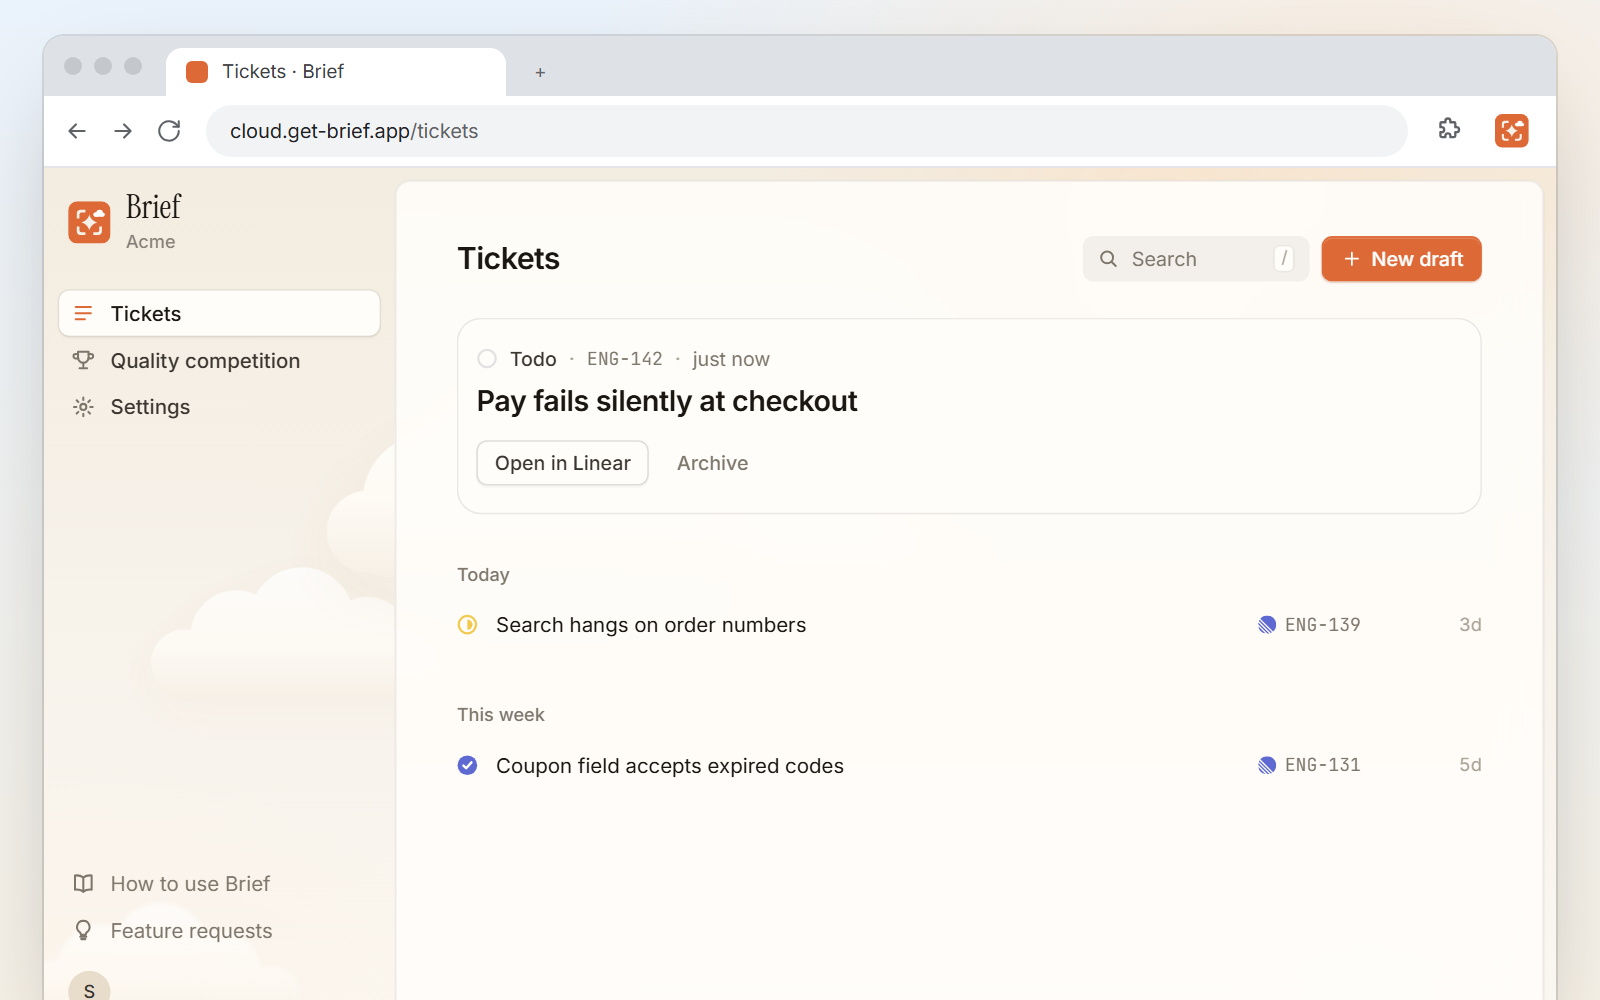
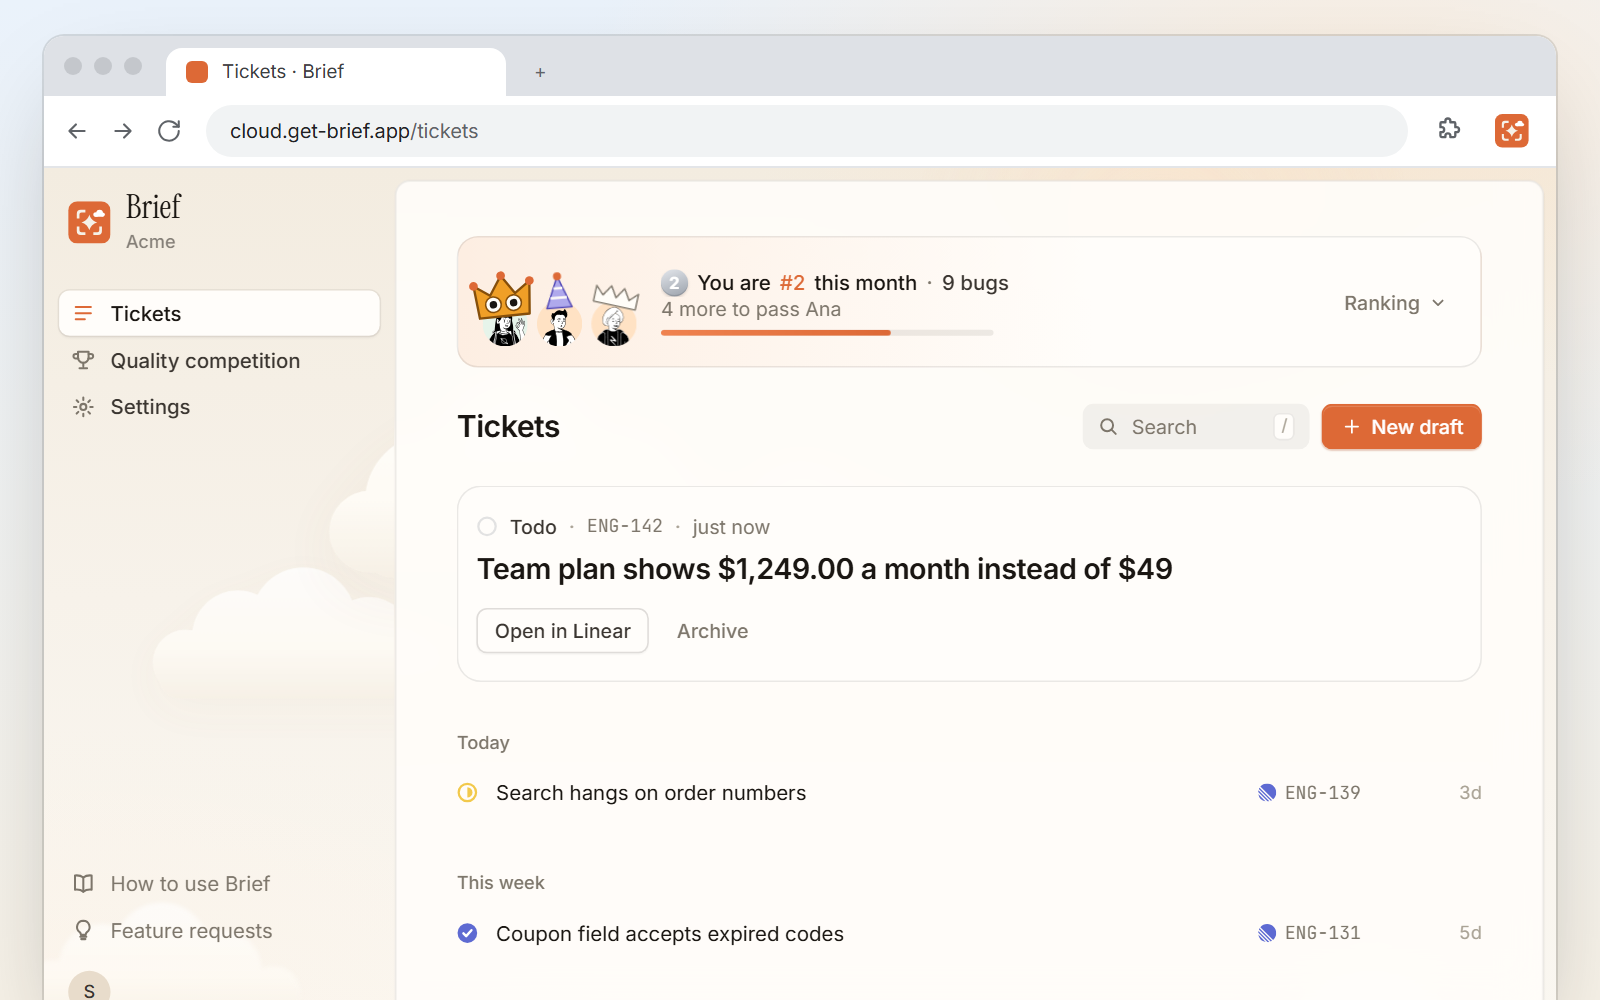
A tidy repo root and clearer screenshots (#11)
The root keeps README, LICENSE, docker-compose.yml and .env.example. Docs move
to docs/ (promo assets to docs/promo), community files to .github/, every link
updated. The extension shot now shows an obvious bug (a $1,249.00 Team plan)
with the popup describing it; the app shot shows the team's competition
podium, with faces, above the filed ticket. The guide's feed mock can take the
podium on top, like the real Tickets page.

diff --git a/docs/promo/promo-small.html b/docs/promo/promo-small.html
@@ -7,25 +7,25 @@
         font-family: 'Instrument Serif';
         font-style: normal;
         font-weight: 400;
-        src: url('../extension/fonts/InstrumentSerif-Regular-latin.woff2') format('woff2');
+        src: url('../../extension/fonts/InstrumentSerif-Regular-latin.woff2') format('woff2');
       }
       @font-face {
         font-family: 'Instrument Serif';
         font-style: italic;
         font-weight: 400;
-        src: url('../extension/fonts/InstrumentSerif-Italic-latin.woff2') format('woff2');
+        src: url('../../extension/fonts/InstrumentSerif-Italic-latin.woff2') format('woff2');
       }
       @font-face {
         font-family: 'JetBrains Mono';
         font-style: normal;
         font-weight: 400;
-        src: url('../extension/fonts/JetBrainsMono-latin.woff2') format('woff2');
+        src: url('../../extension/fonts/JetBrainsMono-latin.woff2') format('woff2');
       }
       @font-face {
         font-family: 'JetBrains Mono';
         font-style: normal;
         font-weight: 500;
-        src: url('../extension/fonts/JetBrainsMono-latin.woff2') format('woff2');
+        src: url('../../extension/fonts/JetBrainsMono-latin.woff2') format('woff2');
       }
       * { margin: 0; padding: 0; box-sizing: border-box; }
       html, body { width: 440px; height: 280px; overflow: hidden; background: #f5f1e8; }

diff --git a/docs/promo/screen-settings.html b/docs/promo/screen-settings.html
@@ -6,22 +6,22 @@
       @font-face {
         font-family: 'Instrument Serif';
         font-style: normal; font-weight: 400;
-        src: url('../extension/fonts/InstrumentSerif-Regular-latin.woff2') format('woff2');
+        src: url('../../extension/fonts/InstrumentSerif-Regular-latin.woff2') format('woff2');
       }
       @font-face {
         font-family: 'Instrument Serif';
         font-style: italic; font-weight: 400;
-        src: url('../extension/fonts/InstrumentSerif-Italic-latin.woff2') format('woff2');
+        src: url('../../extension/fonts/InstrumentSerif-Italic-latin.woff2') format('woff2');
       }
       @font-face {
         font-family: 'JetBrains Mono';
         font-style: normal; font-weight: 400;
-        src: url('../extension/fonts/JetBrainsMono-latin.woff2') format('woff2');
+        src: url('../../extension/fonts/JetBrainsMono-latin.woff2') format('woff2');
       }
       @font-face {
         font-family: 'JetBrains Mono';
         font-style: normal; font-weight: 500;
-        src: url('../extension/fonts/JetBrainsMono-latin.woff2') format('woff2');
+        src: url('../../extension/fonts/JetBrainsMono-latin.woff2') format('woff2');
       }
       * { margin: 0; padding: 0; box-sizing: border-box; }
       html, body { width: 1280px; height: 800px; overflow: hidden; background: #f5f1e8; }

diff --git a/docs/promo/promo-marquee.html b/docs/promo/promo-marquee.html
@@ -7,25 +7,25 @@
         font-family: 'Instrument Serif';
         font-style: normal;
         font-weight: 400;
-        src: url('../extension/fonts/InstrumentSerif-Regular-latin.woff2') format('woff2');
+        src: url('../../extension/fonts/InstrumentSerif-Regular-latin.woff2') format('woff2');
       }
       @font-face {
         font-family: 'Instrument Serif';
         font-style: italic;
         font-weight: 400;
-        src: url('../extension/fonts/InstrumentSerif-Italic-latin.woff2') format('woff2');
+        src: url('../../extension/fonts/InstrumentSerif-Italic-latin.woff2') format('woff2');
       }
       @font-face {
         font-family: 'JetBrains Mono';
         font-style: normal;
         font-weight: 400;
-        src: url('../extension/fonts/JetBrainsMono-latin.woff2') format('woff2');
+        src: url('../../extension/fonts/JetBrainsMono-latin.woff2') format('woff2');
       }
       @font-face {
         font-family: 'JetBrains Mono';
         font-style: normal;
         font-weight: 500;
-        src: url('../extension/fonts/JetBrainsMono-latin.woff2') format('woff2');
+        src: url('../../extension/fonts/JetBrainsMono-latin.woff2') format('woff2');
       }
       * { margin: 0; padding: 0; box-sizing: border-box; }
       html, body {

diff --git a/docs/promo/screen-popup.html b/docs/promo/screen-popup.html
@@ -7,25 +7,25 @@
         font-family: 'Instrument Serif';
         font-style: normal;
         font-weight: 400;
-        src: url('../extension/fonts/InstrumentSerif-Regular-latin.woff2') format('woff2');
+        src: url('../../extension/fonts/InstrumentSerif-Regular-latin.woff2') format('woff2');
       }
       @font-face {
         font-family: 'Instrument Serif';
         font-style: italic;
         font-weight: 400;
-        src: url('../extension/fonts/InstrumentSerif-Italic-latin.woff2') format('woff2');
+        src: url('../../extension/fonts/InstrumentSerif-Italic-latin.woff2') format('woff2');
       }
       @font-face {
         font-family: 'JetBrains Mono';
         font-style: normal;
         font-weight: 400;
-        src: url('../extension/fonts/JetBrainsMono-latin.woff2') format('woff2');
+        src: url('../../extension/fonts/JetBrainsMono-latin.woff2') format('woff2');
       }
       @font-face {
         font-family: 'JetBrains Mono';
         font-style: normal;
         font-weight: 500;
-        src: url('../extension/fonts/JetBrainsMono-latin.woff2') format('woff2');
+        src: url('../../extension/fonts/JetBrainsMono-latin.woff2') format('woff2');
       }
       * { margin: 0; padding: 0; box-sizing: border-box; }
       html, body {

diff --git a/web/components/guide/mock/App.tsx b/web/components/guide/mock/App.tsx
@@ -112,14 +112,15 @@ const ageText = (ago: number) => (ago < 1 ? "just now" : ago < 60 ? `${Math.roun
  * one you just filed as a card, then everything else as rows by day. With
  * `draftsOnly`, what needs you: the drafts, each a card with Finish.
  */
-export function MockFeed({ rows, draftsOnly = false }: { rows: Row[]; draftsOnly?: boolean }) {
+export function MockFeed({ rows, draftsOnly = false, top }: { rows: Row[]; draftsOnly?: boolean; /** Above the header, like BriefsFeed's `top` (the competition podium). */ top?: ReactNode }) {
   const [latest, ...rest] = draftsOnly ? [] : rows;
   const today = rest.filter((r) => r.ago < 1440);
   const week = rest.filter((r) => r.ago >= 1440);
   const todo = draftsOnly ? rows : [];
   return (
     <section>
-      <header className="flex items-center gap-2">
+      {top && <div>{top}</div>}
+      <header className={`flex items-center gap-2 ${top ? "pt-6" : ""}`}>
         <h1 className="page-title mr-auto">Tickets</h1>
         <label className="flex h-[30px] w-[150px] items-center gap-2 rounded-[7px] bg-[var(--color-hover)] px-2.5 text-muted">
           <svg viewBox="0 0 16 16" width="14" height="14" fill="none" stroke="currentColor" strokeWidth="1.5" strokeLinecap="round" aria-hidden="true" className="shrink-0">

diff --git a/docs/promo/_popup-mock.html b/docs/promo/_popup-mock.html
@@ -8,8 +8,8 @@
          and sample data, isolated in its own document so popup.css's html/body
          rules don't leak into the screenshot page. screen-popup.html iframes
          this and scales it up as the device shot. -->
-    <link rel="stylesheet" href="../extension/fonts.css" />
-    <link rel="stylesheet" href="../extension/popup.css" />
+    <link rel="stylesheet" href="../../extension/fonts.css" />
+    <link rel="stylesheet" href="../../extension/popup.css" />
     <style>
       /* Override popup.css's html/body rules (width:360px, opacity:0 gate) so the
          popup renders reliably as a standalone framed shot. */

diff --git a/web/app/privacy/page.tsx b/web/app/privacy/page.tsx
@@ -243,7 +243,7 @@ export default function PrivacyPage() {
           </p>
           <p>
             Brief is open source, so you can check this yourself, or{" "}
-            <a href="https://github.com/razi2001/brief/blob/main/SELF_HOSTING.md" className="underline">
+            <a href="https://github.com/razi2001/brief/blob/main/docs/SELF_HOSTING.md" className="underline">
               run your own copy
             </a>{" "}
             so that nobody but your team holds your data. Our database is not

diff --git a/web/app/(main)/what-we-see/page.tsx b/web/app/(main)/what-we-see/page.tsx
@@ -47,7 +47,7 @@ export default async function WhatWeSeePage() {
           ))}
         </ul>
         <p className="mt-4 text-[13px]">
-          <a href="https://github.com/razi2001/brief/blob/main/PRIVACY.md" className="text-muted hover:text-ink">
+          <a href="https://github.com/razi2001/brief/blob/main/docs/PRIVACY.md" className="text-muted hover:text-ink">
             Check it in the code
           </a>
           <span className="text-muted"> · </span>

diff --git a/README.md b/README.md
@@ -8,7 +8,7 @@
 [![Release](https://img.shields.io/github/v/release/razi2001/brief?color=dd6936)](https://github.com/razi2001/brief/releases)
 [![License: MIT](https://img.shields.io/badge/license-MIT-dd6936)](LICENSE)
 
-[Try it](https://get-brief.app) · [Self-host](SELF_HOSTING.md) · [Audit](AUDIT.md) · [Discussions](https://github.com/razi2001/brief/discussions)
+[Try it](https://get-brief.app) · [Self-host](docs/SELF_HOSTING.md) · [Audit](docs/AUDIT.md) · [Discussions](https://github.com/razi2001/brief/discussions)
 
 </div>
 
@@ -22,14 +22,14 @@
 - **The service** (a Next.js app) transcribes it, writes the ticket with steps to reproduce, and files it to Linear, Jira, GitHub, GitLab, Azure DevOps, ClickUp, Notion, Trello, Asana or Monday.
 - **Your data:** the people running a Brief server can't read your tickets in its admin views, and you can host your own.
 
-More in [ARCHITECTURE.md](ARCHITECTURE.md) and [PRIVACY.md](PRIVACY.md).
+More in [ARCHITECTURE.md](docs/ARCHITECTURE.md) and [PRIVACY.md](docs/PRIVACY.md).
 
 ## Self-host
 
 Paste into Claude Code (or any coding agent):
 
 ```text
-Clone https://github.com/razi2001/brief and set it up for me by following SELF_HOSTING.md.
+Clone https://github.com/razi2001/brief and set it up for me by following docs/SELF_HOSTING.md.
 ```
 
 ## Audit us
@@ -37,9 +37,9 @@ Clone https://github.com/razi2001/brief and set it up for me by following SELF_H
 Paste into your agent:
 
 ```text
-Clone https://github.com/razi2001/brief and audit it by following AUDIT.md.
+Clone https://github.com/razi2001/brief and audit it by following docs/AUDIT.md.
 ```
 
 ---
 
-[Contributing](CONTRIBUTING.md) · [Changelog](CHANGELOG.md) · [Security](SECURITY.md) · [Code of conduct](CODE_OF_CONDUCT.md)
+[Contributing](.github/CONTRIBUTING.md) · [Changelog](docs/CHANGELOG.md) · [Security](.github/SECURITY.md) · [Code of conduct](.github/CODE_OF_CONDUCT.md)

diff --git a/.github/CONTRIBUTING.md b/.github/CONTRIBUTING.md
@@ -12,7 +12,7 @@ cd web && npm ci
 cp ../.env.example .env.local
 ```
 
-Fill `.env.local` ([SELF_HOSTING.md](SELF_HOSTING.md) says where each key comes from), then:
+Fill `.env.local` ([SELF_HOSTING.md](../docs/SELF_HOSTING.md) says where each key comes from), then:
 
 ```bash
 node --env-file=.env.local scripts/migrate.mjs
@@ -42,7 +42,7 @@ node --test extension/test/*.test.mjs
 
 ## Guidelines
 
-- **Privacy changes are explicit.** If a change makes the owner views, the activity log or telemetry see more, update `OWNER_FIELDS` / `OWNER_COLUMNS` / `PING_FIELDS` and their tests, and say it in [PRIVACY.md](PRIVACY.md) or [TELEMETRY.md](TELEMETRY.md) in the same PR.
+- **Privacy changes are explicit.** If a change makes the owner views, the activity log or telemetry see more, update `OWNER_FIELDS` / `OWNER_COLUMNS` / `PING_FIELDS` and their tests, and say it in [PRIVACY.md](../docs/PRIVACY.md) or [TELEMETRY.md](../docs/TELEMETRY.md) in the same PR.
 - **Schema changes** are a new numbered file in `web/supabase/migrations/`. Make it idempotent (`if not exists`) and turn RLS on for new tables.
 - **UI copy** is short labels and controls, no instructional paragraphs, no em dashes.
 - Next.js here is v16: the middleware file is `web/proxy.ts`, and route `params` are a `Promise`. Read `web/node_modules/next/dist/docs/` before using an API you're unsure of.

diff --git a/docs/SELF_HOSTING.md b/docs/SELF_HOSTING.md
@@ -6,7 +6,7 @@ Run Brief on your own machine or server, with your own accounts. Your recordings
 
 ## With a coding agent
 
-Ask Claude Code (or any agent that can run commands): *Clone https://github.com/razi2001/brief and set it up for me by following SELF_HOSTING.md.*
+Ask Claude Code (or any agent that can run commands): *Clone https://github.com/razi2001/brief and set it up for me by following docs/SELF_HOSTING.md.*
 
 **Agent: do these steps, one at a time. "Me" is the person you are setting it up for.**
 
@@ -58,7 +58,7 @@ Create a key at [platform.openai.com/api-keys](https://platform.openai.com/api-k
 
 ### 5. Your tracker
 
-Brief connects to trackers with OAuth apps that you own. Fill only the ones your team uses: [web/TRACKERS.md](web/TRACKERS.md) has the steps for each. The redirect URI is always:
+Brief connects to trackers with OAuth apps that you own. Fill only the ones your team uses: [web/TRACKERS.md](../web/TRACKERS.md) has the steps for each. The redirect URI is always:
 
 ```
 <APP_URL>/api/connect/<provider>/callback      e.g. http://localhost:3000/api/connect/linear/callback

diff --git a/.github/SECURITY.md b/.github/SECURITY.md
@@ -4,7 +4,7 @@
 
 Please report vulnerabilities privately through [GitHub's private vulnerability reporting](https://github.com/razi2001/brief/security/advisories/new), not in a public issue. We reply within three days and will credit you in the fix unless you'd rather not.
 
-In scope: the extension, the web app, the hosted instance at cloud.get-brief.app, and anything where the code does more with your data than [PRIVACY.md](PRIVACY.md) says.
+In scope: the extension, the web app, the hosted instance at cloud.get-brief.app, and anything where the code does more with your data than [PRIVACY.md](../docs/PRIVACY.md) says.
 
 ## How Brief is built to be safe
 
